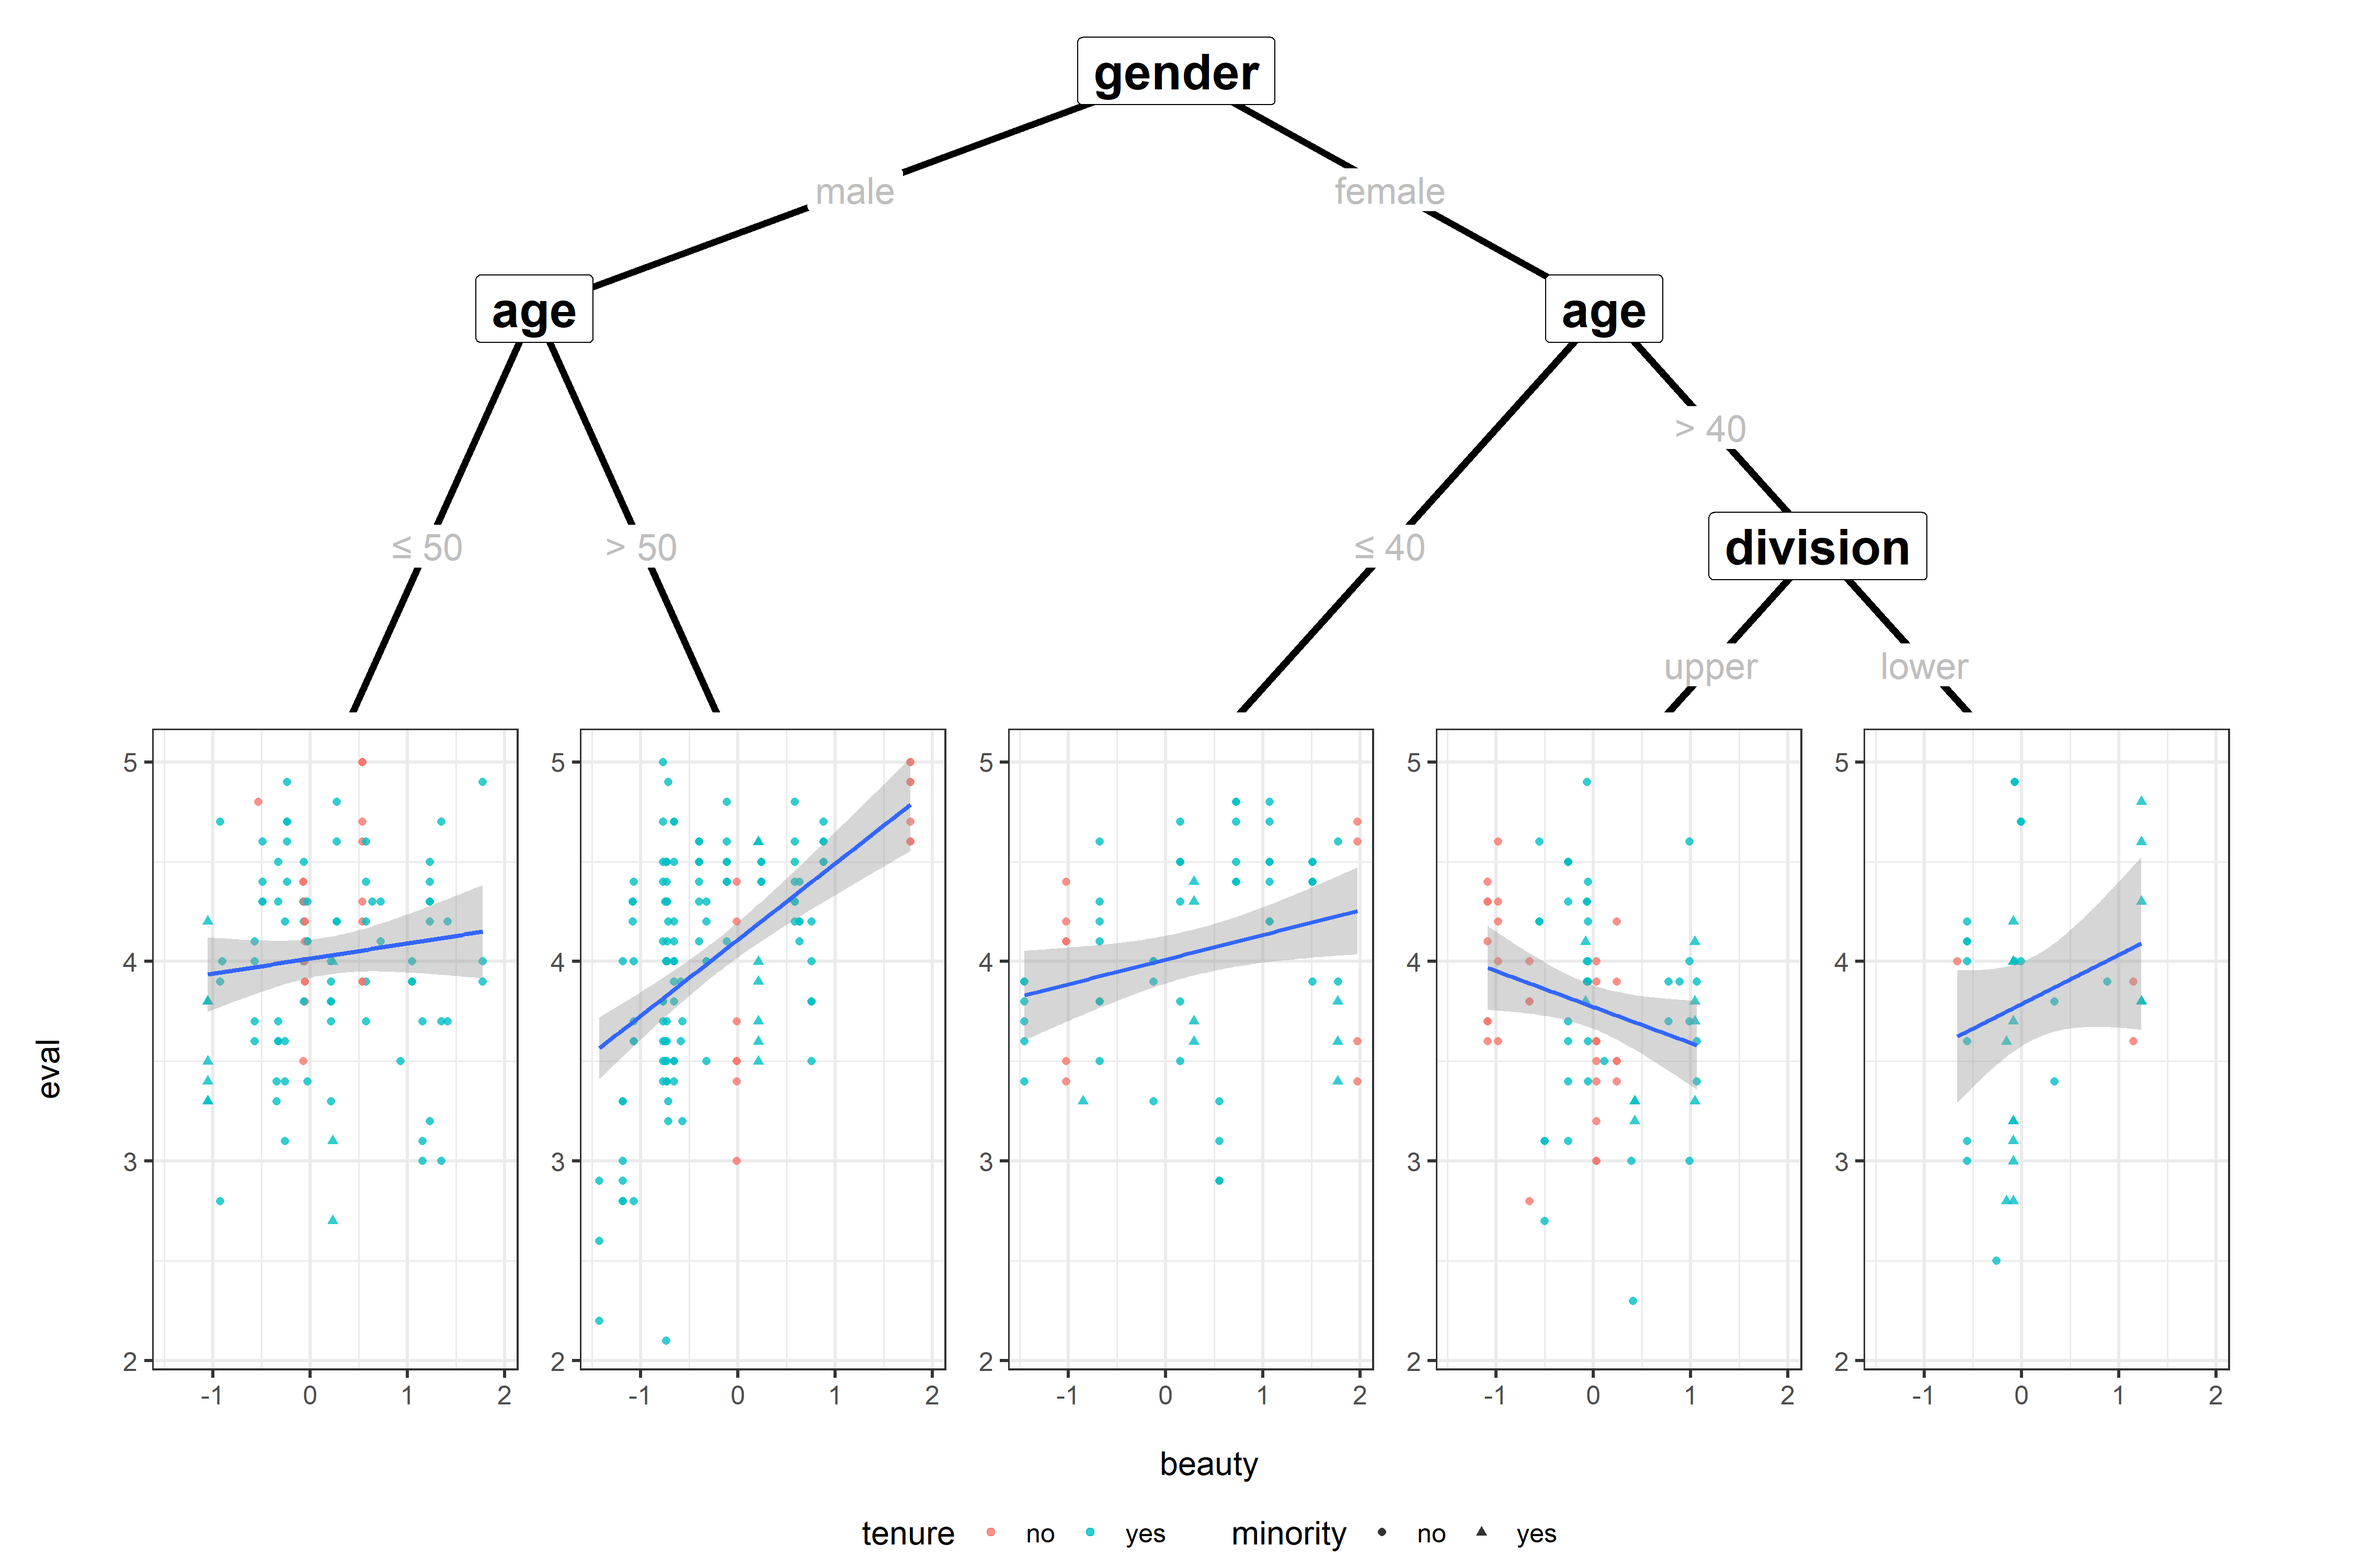
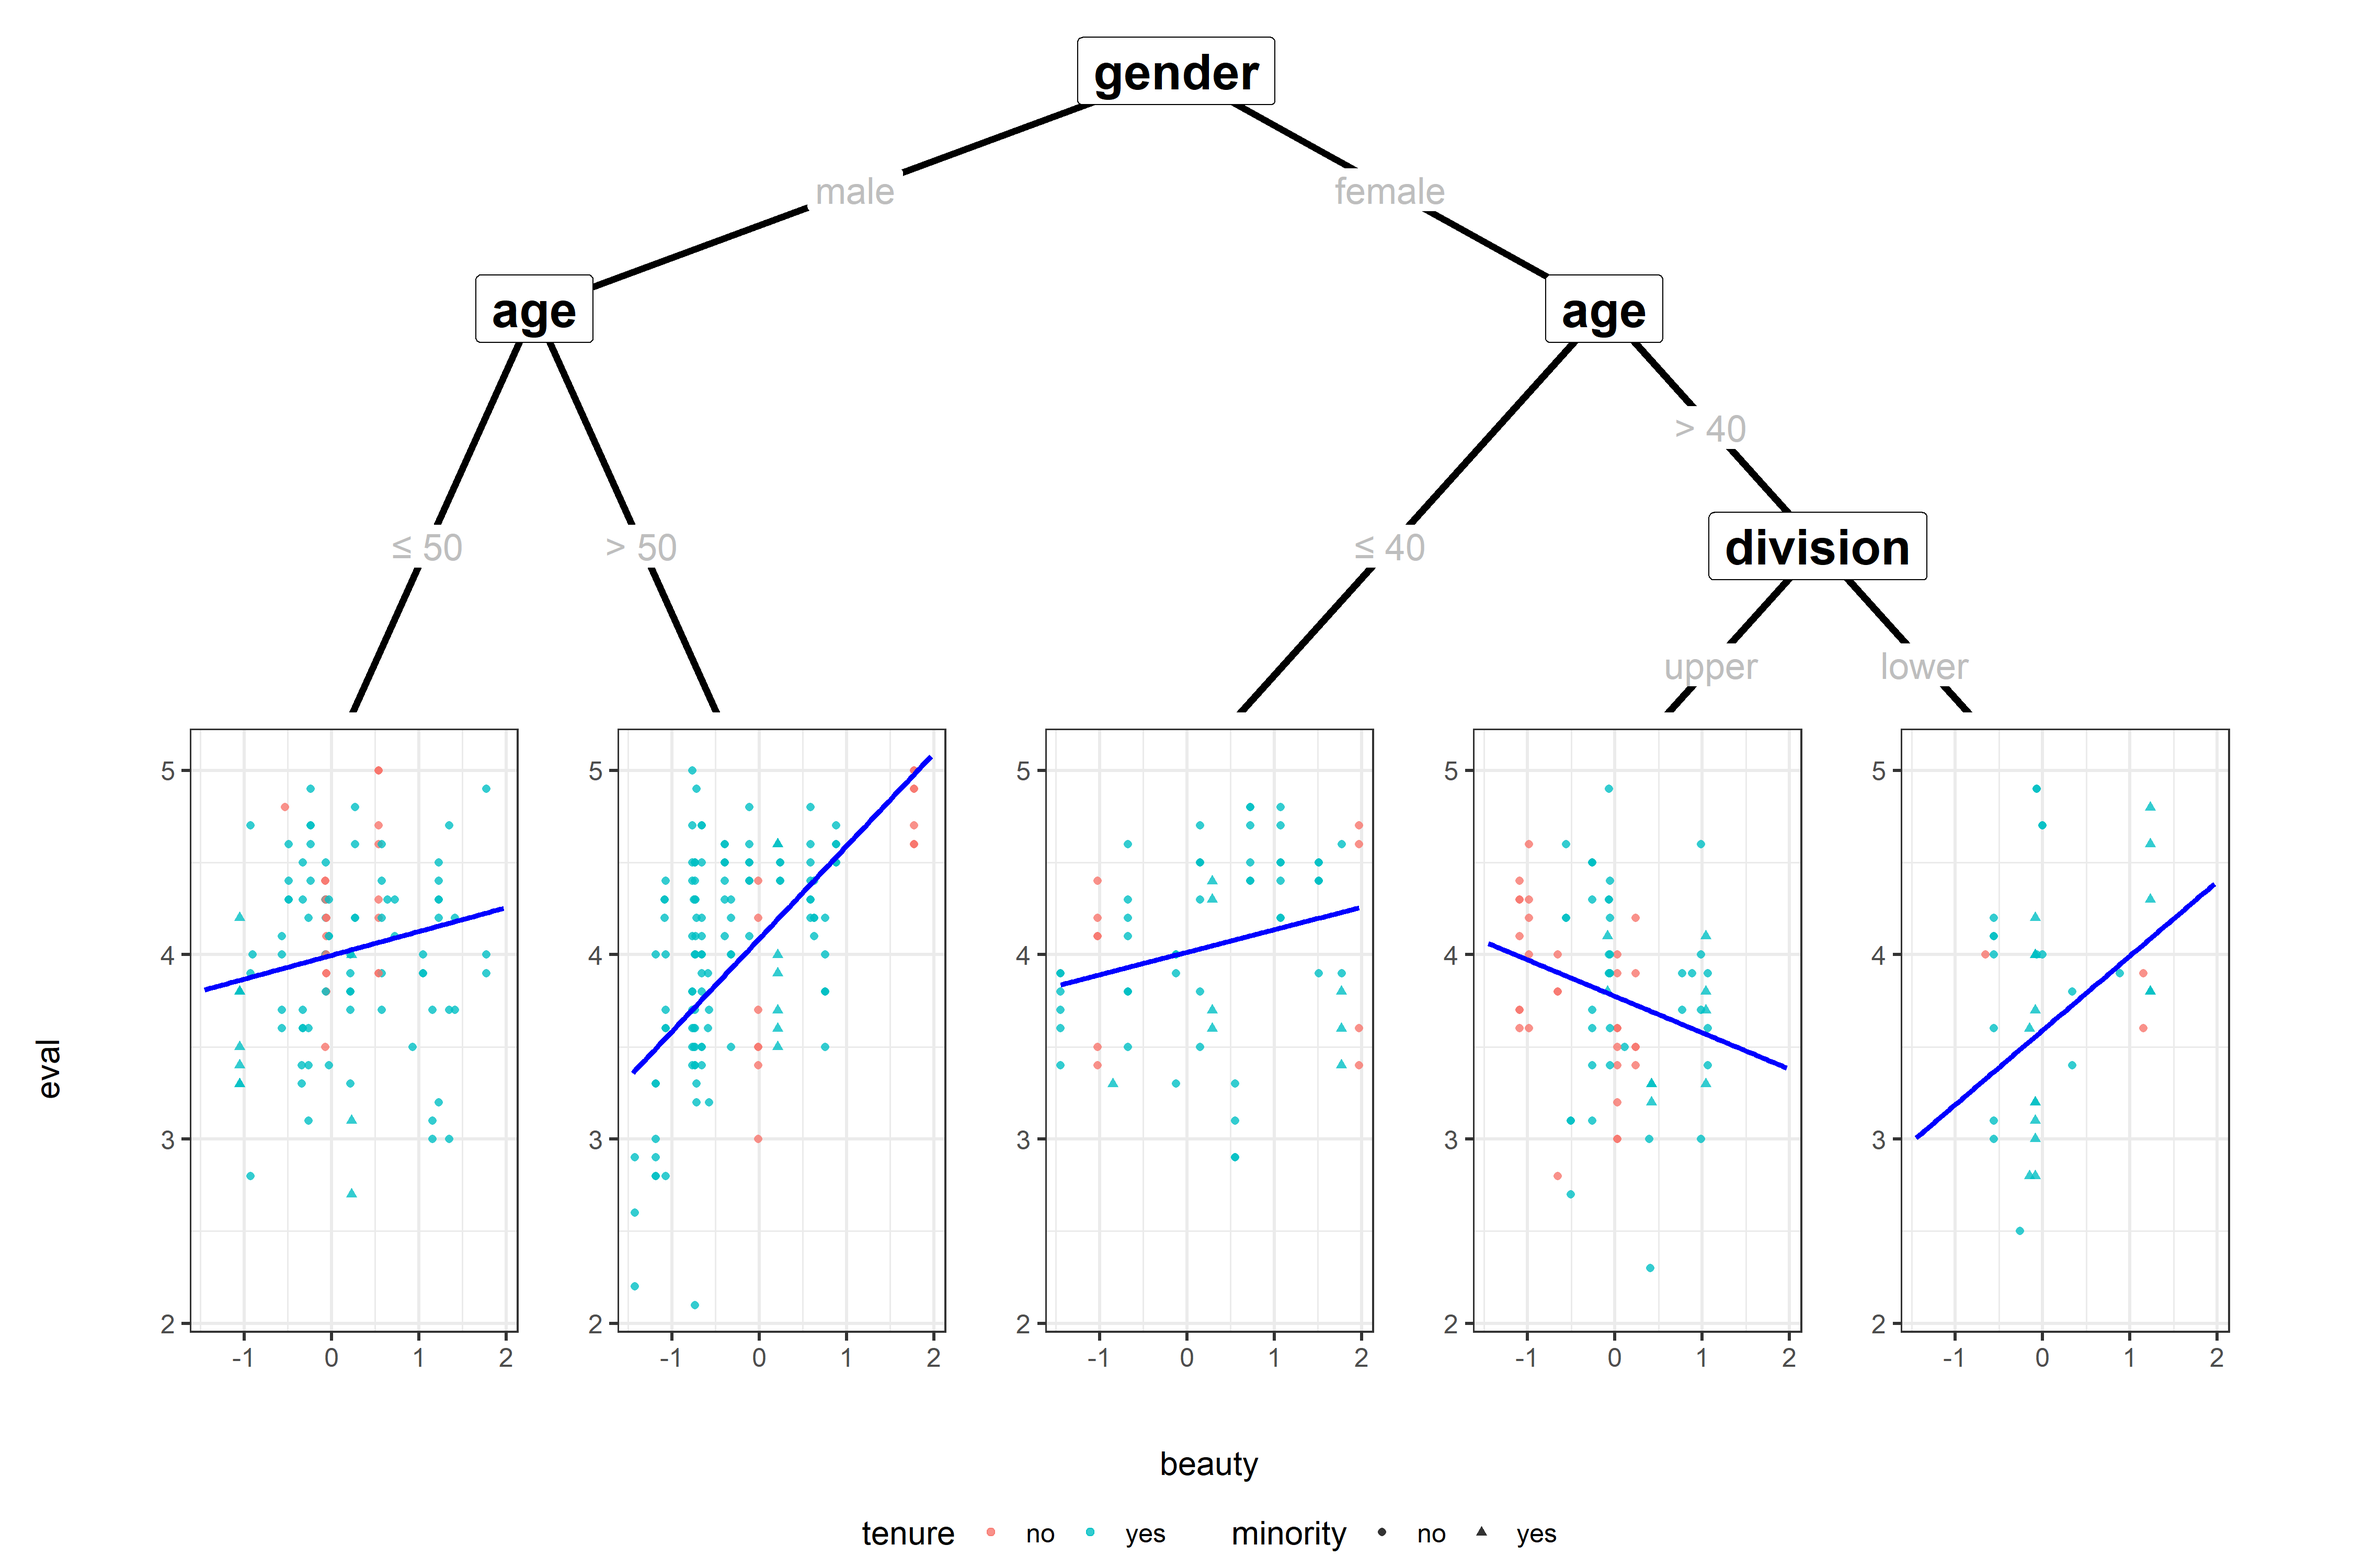
residuals mappable

diff --git a/README.md b/README.md
@@ -23,7 +23,7 @@ tr <- subset(TeachingRatings, credits == "more")
 tr_tree <- lmtree(eval ~ beauty | minority + age + gender + division + native +
                     tenure, data = tr, weights = students, caseweights = FALSE)
 
-ggparty(tr_tree, terminal_space = 0.5) +
+ggparty(tr_tree, terminal_space = 0.5, horizontal = F) +
   geom_edge(size = 1.5) +
   geom_node_splitvar(fontface = "bold", size = 8) +
   geom_edge_label(colour = "grey", size = 6) +
@@ -32,12 +32,21 @@ ggparty(tr_tree, terminal_space = 0.5) +
                                              col = tenure,
                                              shape = minority),
                                          alpha = 0.8),
-                              geom_smooth(aes(x = beauty, y = eval),
-                                          method = "lm"),
+                              expression(
+                                geom_line(data = predict_data,
+                                          aes(x = beauty,
+                                              y = prediction),
+                                          col = "blue",
+                                          size = 1.2)),
                               theme_bw(base_size = 15)),
                 scales = "fixed",
                 id = "terminal",
-                shared_axes_labels = TRUE)
+                shared_axes_labels = T,
+                predict_arg = list(newdata = function(x) {
+                  data.frame(beauty = seq(min(x$beauty),
+                                           max(x$beauty),
+                                           length.out = 100))
+                }))
 ```
 
 ![](README_files/figure-markdown_github/unnamed-chunk-2-1.png)
